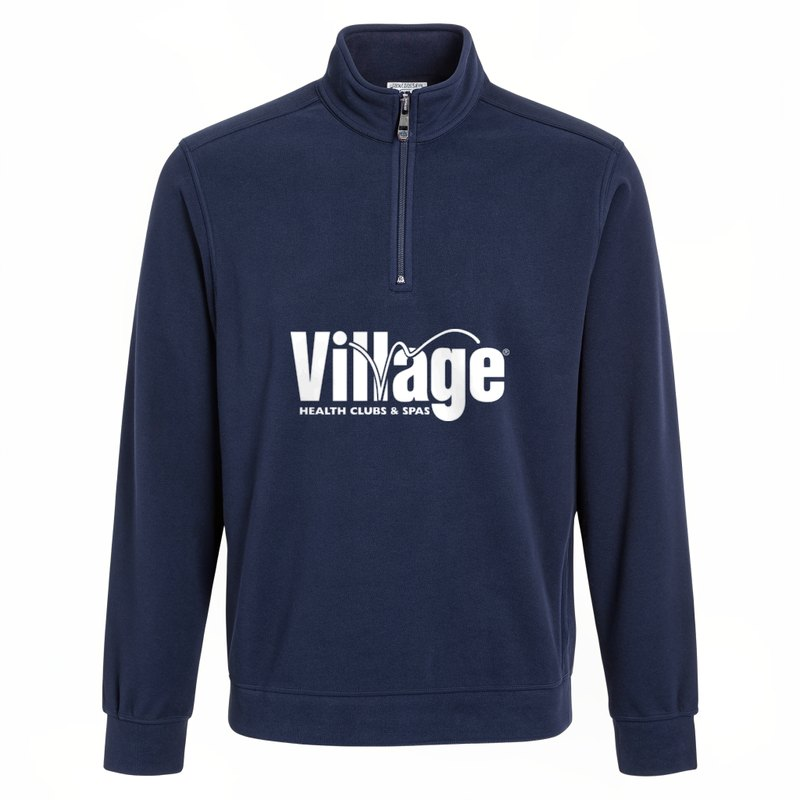
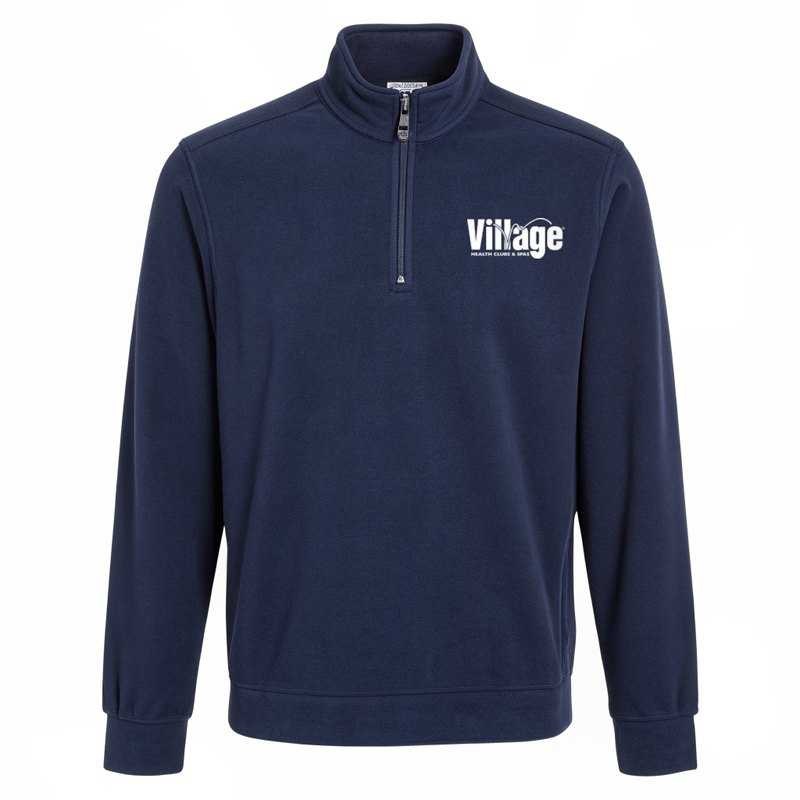
Hoodie center chest under cords, quarter-zip left chest, cache-bust

Changed region(s): [[0.3438, 0.4062, 0.6562, 0.5312], [0.5625, 0.25, 0.7188, 0.3438]]

diff --git a/store.js b/store.js
@@ -1,16 +1,16 @@
 const PRODUCTS = [
- {id:"hoodie", name:"Ocotillo Tennis Pullover Hoodie", img:"assets/hoodie.jpg?v=2", color:"Navy", hex:"#1d2b4a", fit:"Unisex", sizes:["XS","S","M","L","XL","2XL","3XL"], youth:true, personalize:true, tag:"Best seller",
+ {id:"hoodie", name:"Ocotillo Tennis Pullover Hoodie", img:"assets/hoodie.jpg?v=3", color:"Navy", hex:"#1d2b4a", fit:"Unisex", sizes:["XS","S","M","L","XL","2XL","3XL"], youth:true, personalize:true, tag:"Best seller",
   blurb:"Midweight fleece with the Village wordmark printed center chest. The one players pull on for early-morning clinics and cool-down after evening matches.",
   bullets:["Soft 8 oz cotton-blend fleece","Kangaroo pocket, flat drawcords","Adult and youth sizing","Optional player name on the back"]},
- {id:"crew", name:"Village Crewneck Sweatshirt", img:"assets/crew.jpg?v=2", color:"Heather Grey", hex:"#b8b8b8", fit:"Unisex", sizes:["XS","S","M","L","XL","2XL","3XL"], youth:true, personalize:true,
+ {id:"crew", name:"Village Crewneck Sweatshirt", img:"assets/crew.jpg?v=3", color:"Heather Grey", hex:"#b8b8b8", fit:"Unisex", sizes:["XS","S","M","L","XL","2XL","3XL"], youth:true, personalize:true,
   blurb:"Classic crew with the full Village lockup in navy. Layers over a polo on cold court mornings.", bullets:["Ribbed cuffs and hem","Pre-shrunk, holds its shape","Adult and youth sizing"]},
- {id:"qzip", name:"Ocotillo Performance Quarter-Zip", img:"assets/qzip.jpg?v=2", color:"Navy", hex:"#1d2b4a", fit:"Men's & Ladies'", sizes:["XS","S","M","L","XL","2XL","3XL"], youth:false, personalize:true, tag:"Coach favorite",
+ {id:"qzip", name:"Ocotillo Performance Quarter-Zip", img:"assets/qzip.jpg?v=3", color:"Navy", hex:"#1d2b4a", fit:"Men's & Ladies'", sizes:["XS","S","M","L","XL","2XL","3XL"], youth:false, personalize:true, tag:"Coach favorite",
   blurb:"Smooth-face stretch pullover with the Village mark embroidered on the left chest. The polished warm-up piece for pros, coaches, and league captains.", bullets:["Moisture-wicking stretch fabric","Embroidered, not printed","Men's and ladies' cuts","Optional name or title on the right chest"]},
- {id:"polo", name:"Ocotillo Court Polo", img:"assets/polo.jpg?v=2", color:"White", hex:"#ffffff", fit:"Men's & Ladies'", sizes:["XS","S","M","L","XL","2XL","3XL"], youth:false, personalize:false,
+ {id:"polo", name:"Ocotillo Court Polo", img:"assets/polo.jpg?v=3", color:"White", hex:"#ffffff", fit:"Men's & Ladies'", sizes:["XS","S","M","L","XL","2XL","3XL"], youth:false, personalize:false,
   blurb:"Lightweight performance polo with the Village mark embroidered on the left chest. Court-ready, and clean enough for the clubhouse after.", bullets:["Snag-resistant performance knit","UPF sun protection","Men's and ladies' cuts"]},
- {id:"cap", name:"Village Structured Cap", img:"assets/cap.jpg?v=2", color:"Navy", hex:"#1d2b4a", fit:"One size", sizes:["One size"], youth:false, personalize:false,
+ {id:"cap", name:"Village Structured Cap", img:"assets/cap.jpg?v=3", color:"Navy", hex:"#1d2b4a", fit:"One size", sizes:["One size"], youth:false, personalize:false,
   blurb:"Structured six-panel cap with a curved brim and the Village wordmark embroidered up front.", bullets:["Embroidered front","Adjustable closure","Sun-ready for Chandler courts"]},
- {id:"tee", name:"Ocotillo Performance Tee", img:"assets/tee.jpg?v=2", color:"Heather Grey", hex:"#b8b8b8", fit:"Adult & Youth", sizes:["XS","S","M","L","XL","2XL","3XL"], youth:true, personalize:true,
+ {id:"tee", name:"Ocotillo Performance Tee", img:"assets/tee.jpg?v=3", color:"Heather Grey", hex:"#b8b8b8", fit:"Adult & Youth", sizes:["XS","S","M","L","XL","2XL","3XL"], youth:true, personalize:true,
   blurb:"Lightweight tri-blend tee with the Village lockup center chest. Built for match days and junior clinics alike.", bullets:["Breathable, quick-dry blend","Retail fit, tagless","Adult and youth sizing","Optional player name on the back"]},
 ];
 const YOUTH = ["YS","YM","YL","YXL"];
